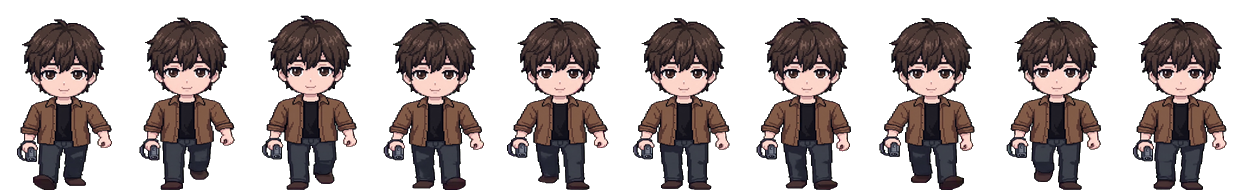
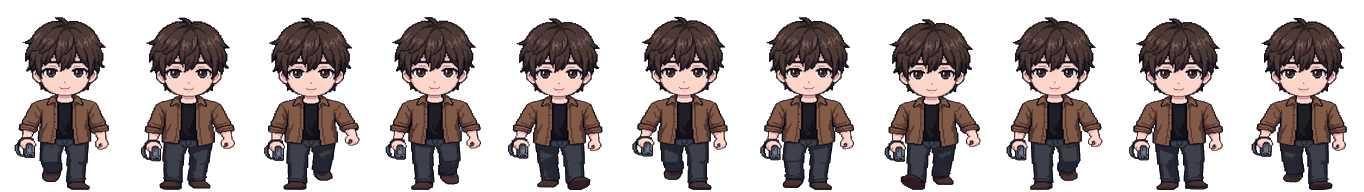
도윤 정면 걷기: 한 발이 멈칫하던 구간을 피해 고른 두 걸음 구간으로 교체
Claude-Session: https://claude.ai/code/session_01MBgVgKbFxkEXND4zuEcjdV

diff --git a/tools/sprite_cleanup/doyun_build.py b/tools/sprite_cleanup/doyun_build.py
@@ -40,7 +40,7 @@ TOTAL = 178                # 정지 키
 # 두 영상 모두 같은 정지 그림에서 시작해서 축척·위치가 그대로 맞음. 재생 속도는 영상 속 걸음 빠르기 그대로
 CLIPS = [
     ("walk_right", "walk_right_small.mp4", 43, 26, 10, 762 / 717, "walk_left", "idle_right", "idle_left", "frame:12", "walk_right.mp4"),
-    ("walk_down", "walk_down_small.mp4", 36, 32, 10, 1.0, None, "idle", None, "draw", "walk_down.mp4"),
+    ("walk_down", "walk_down_small.mp4", 62, 44, 11, 1.0, None, "idle", None, "draw", "walk_down.mp4"),
     ("walk_up", "walk_up_small.mp4", 116, 24, 8, 722 / 717, None, "idle_up", None, None, "walk_up.mp4"),
 ]
 
